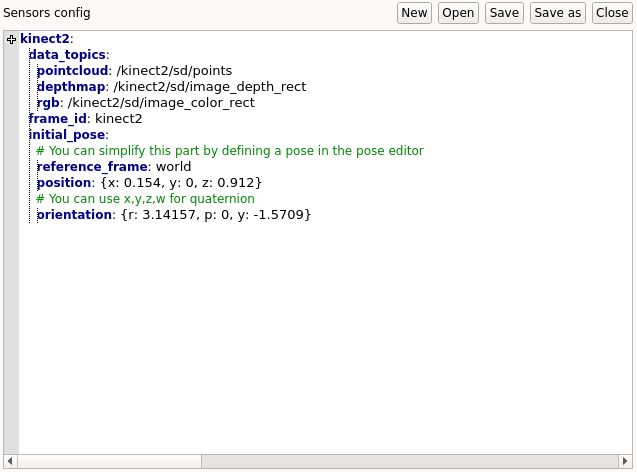
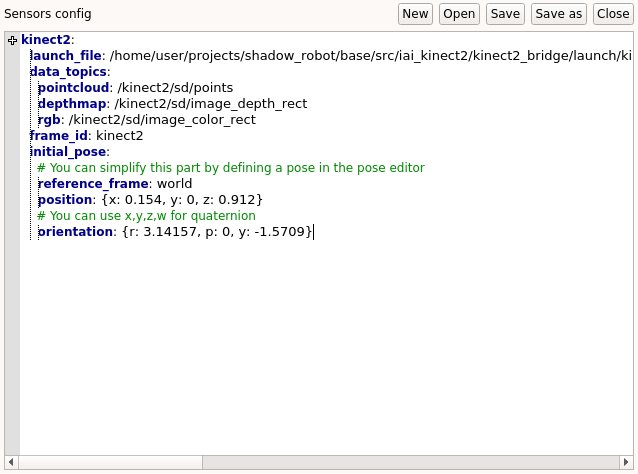
update documentation and add automated pick place tutorial

Changed region(s): [[0.0, 0.0, 1.0, 1.0]]

diff --git a/docs/tutorials/task_editor/automated_pick_and_place.rst b/docs/tutorials/task_editor/automated_pick_and_place.rst
@@ -14,7 +14,7 @@ A robot arm and gripper or hand integrated to GRIP, either :ref:`through MoveIt!
 Prerequisites
 #############
 
-In order to illustrate the same example both when the robot is integrated through MoveIt! and when one part of the robot is controlled by an external controller, we are going to use a UR5 robot arm with a EZGripper. If you want to replicate this tutorial, please clone `this repository <https://github.com/ARQ-CRISP/arq_ur5_ezgripper_moveit_config.git>`_ and `this one <https://github.com/ARQ-CRISP/EZGripper>`_ in :code:`/home/user/projects/shadow_robot/base/src`. Then compile them
+In order to illustrate the same example both when the robot is integrated through MoveIt! and when one part of the robot is controlled by an external controller, we are going to use a UR5 robot arm with a EZGripper. If you want to replicate this tutorial, please clone `this repository <https://github.com/ARQ-CRISP/arq_ur5_ezgripper_moveit_config.git>`_ and `this one <https://github.com/ARQ-CRISP/EZGripper>`_ in :code:`/home/user/projects/shadow_robot/base/src`. Note that for the simulation of the EZGripper, you might want to clone this `repository <https://github.com/roboticsgroup/roboticsgroup_gazebo_plugins.git>`_ as well. Now, compile them:
 
 .. prompt:: bash $
 
@@ -22,8 +22,75 @@ In order to illustrate the same example both when the robot is integrated throug
     catkin_make
     source devel/setup.bash
 
-Pick and place with full MoveIt! integration
-############################################
-In this section, we are going to run our robot in simulation **because we cannot control the physical EZGripper via MoveIt!**. Note that if you can operate your physical robot through MoveIt!, you should read and reproduce similar steps!
+Pick and place with MoveIt! operating the full robot
+####################################################
+In this section, we are going to run our robot in simulation **because we cannot control the physical EZGripper via MoveIt!**. Note that if you can operate your physical robot through MoveIt!, you should follow similar steps!
 
-1. Integrate your robot following :ref:`this tutorial <integrate_with_moveit>`. In our case, we have declared two planners, one for the group :code:`arm_and_manipulator` and the other one for :code:`ezgripper_finger_1` ()
+1. Integrate your robot following :ref:`this tutorial <integrate_with_moveit>`. In our case, we have declared two planners, one for the group :code:`arm_and_manipulator` that will control the arm and the other one for :code:`ezgripper_finger_1`, that will control the gripper.
+2. Define the joint states and/or poses that correspond to where the robot should move during the task. In order to illustrate the different features of the provided states, for this tutorial we defined 4 joint states and 1 pose as follow:
+Named joint states:
+
+.. code-block:: yaml
+
+  arm_grasp:
+    shoulder_pan_joint: 1.435950220551577
+    shoulder_lift_joint: -1.1216608234917134
+    elbow_joint: 1.6512809336516137
+    wrist_1_joint: -2.0680473866253664
+    wrist_2_joint: -1.5617962196319137
+    wrist_3_joint: -0.04593322487126095
+
+  open_gripper:
+    ezgripper_knuckle_palm_L1_1: 0
+
+  close_gripper:
+    ezgripper_knuckle_palm_L1_1: 1.94
+
+Named poses:
+
+.. code-block:: yaml
+
+  drop_state:
+    reference_frame: world
+    position: {x: 0.26725, y: 0.24347, z: 0.975}
+    # You can change r,p,y to x,y,z,w for quaternion
+    orientation: {x: 0.72173, y: -0.69127, z: 0.03176, w: -0.015492}
+
+3. Launch the robot (you can either click on the :code:`Launch robot` button or use the shortcut :code:`Ctrl+l`)
+4. In the :code:`Task editor` tab, you should see a set of states ready to be used. You can drag and drop them into the editor area. In this tutorial we are only going to use two of them: :code:`ComputePlan` and :code:`Move`.
+5. Configure each state according to what you want to implement. Note that you can take the most of the dropdown lists to select registered poses and joint states.
+
+.. image:: ../../img/automated_pick_place.png
+
+6. Make sure all the sockets are properly connected. Note that to connect all the remaining sockets to the :code:`Task failure`, you can use your right click and select :code:`Connect free sockets`.
+7. Right click and select :code:`Execute`. A window is going to prompt you for the name you want to give to the task. Once the new name provided, you should see the robot moving according to what you have just implemented!
+
+
+Pick and place with MoveIt! and an external controller
+######################################################
+In this section, we are going to carry out exactly the same task as in the previous section, but with our physical robot. As a result, we are going to use MoveIt! to control our robot arm and an `external controller <https://github.com/ARQ-CRISP/EZGripper/blob/master/ezgripper_driver/controllers/joint_state_controller.py>`_ :ref:`wrapped into a ROS action <ros_actions>` to operate the gripper.
+
+1. Integrate your robot following :ref:`this <integrate_software>` and :ref:`this tutorial <integrate_with_moveit>`. In our case, we keep the same MoveIt! configuration package but only register one MoveIt! planner for the group :code:`arm_and_manipulator`. In the :code:`Hand configuration` tab, we use the following configuration for the :code:`External controller` editor:
+
+.. code-block:: yaml
+
+  EZGripperController:
+    file: /home/user/projects/shadow_robot/base/src/EZGripper/ezgripper_driver/controllers/joint_state_controller.py
+    action/service: /home/user/projects/shadow_robot/base/src/EZGripper/ezgripper_driver/action/JointStateGripper.action
+    server_name: joint_state_ezgripper_controller
+    node_type: joint_state_controller.py
+    number_outcomes: 2
+
+2. Define your joint states and/or poses that correspond to where the robot should move during the task. In our case, we use exactly the same as the previous section.
+3. Launch the robot (you can either click on the :code:`Launch robot` button or use the shortcut :code:`Ctrl+l`)
+4. In the :code:`Task editor` tab, you should see a set of states ready to be used. You can drag and drop them into the editor area. In this tutorial we are going to use three of them: :code:`ComputePlan`, :code:`Move` and the state generated from the integrated controller (here :code:`EZGripperController`).
+5. Configure each state according to what you want to implement. Note that you can still take the most of the dropdown lists in generated states!
+
+.. image:: ../../img/automatic_pick_place_external.png
+
+6. Make sure all the sockets are properly connected. Note that to connect all the remaining sockets to the :code:`Task failure`, you can use your right click and select :code:`Connect free sockets`.
+7. Right click and select :code:`Execute`. A window is going to prompt you for the name you want to give to the task. Once the new name provided, you should see the robot moving according to what you have just implemented!
+
+.. note::
+
+	You don't have to use MoveIt! at all if you have your own controller and planner for the robot arm. The steps are mostly the same, except that you won't have the states :code:`ComputePlan` and :code:`Move` but the generated one running your own code!

diff --git a/docs/tutorials/integration/integrate_sensor.rst b/docs/tutorials/integration/integrate_sensor.rst
@@ -22,7 +22,7 @@ Procedure
 2. Specify the URDF file of the robot to the framework
 3. Set the composition of your robot(s), i.e. how many arms, hands and sensors need to be configured. In this case we are going to set only one sensor, but you can have several sensors
 4. In the :code:`Settings` tab, in the :code:`Sensors config`, click on :code:`New` and save the file wherever you want
-5. In the margin, click on the :code:`+` symbol and enter the name of your sensor
+5. In the margin, click on the :code:`+` symbol and enter the name of your sensor. Another dialog window is going to ask you for a launch file that runs your sensor. If you don't have any please refer to step 9.
 6. A template will appear in the editor with the following fields:
     * :code:`data_topics`: Dictionary that must contain all the different data to collect with their associated topic
     * :code:`frame_id`: Name of the frame associated to the sensor in the scene
@@ -32,7 +32,7 @@ Procedure
 
 7. Click on :code:`Save` in the editor and here you are, your sensor is now integrated (i.e. you can see a state in the :code:`Task editor` tab that allows you to collect data from the referenced topics).
 8. Integrate the rest of your robot
-9. **Before** clicking on :code:`Launch robot`, make sure you run the node or launch file publishing the data on topics in another terminal. In our case, we would first run :code:`roslaunch kinect2_bridge kinect2_bridge.launch reg_method:=cpu depth_method:=opengl` before clicking on :code:`Launch robot`
+9. If you have not provided a launch file during step 5 (that's fine), make sure to run your node or launch file that starts the sensor **before** clicking on :code:`Launch robot`.
 
 .. note::
 

diff --git a/docs/tutorials/integration/define_poses.rst b/docs/tutorials/integration/define_poses.rst
@@ -11,7 +11,7 @@ In this tutorial, we assume that a robot is already properly interfaced to GRIP 
 
 Procedure
 #########
-The same editor allows you to create both simple poses or to create poses for the robot's end-effector. After completing the common (and mandatory) steps, you can go to the corresponding subsections.
+The same editor allows you to create both simple poses or to create poses for the robot's end-effector. The latest is mainly useful when you want to define the pose of different fingers of a robot hand for instance. After completing the common (and mandatory) steps, you can go to the corresponding subsections.
 
 Common steps
 ************

diff --git a/docs/user_guide/installing_grip.rst b/docs/user_guide/installing_grip.rst
@@ -9,6 +9,7 @@ Hardware specifications
 #######################
 
 In order to run our software and the ROS software stack you will need to meet some hardware requirements.
+
 * CPU: Intel i5 or above
 * RAM: 4GB or above Hard Drive: Fast HDD or SSD (Laptop HDD can be slow)
 * Graphics Card: Nvidia GPU (optional)

diff --git a/docs/user_guide/tutorials.rst b/docs/user_guide/tutorials.rst
@@ -37,4 +37,7 @@ Integration stage
 Task design and execution
 #########################
 
+:ref:`Running an automated pick and place task <automated_pick_place>`
+**********************************************************************
+
 **In progress, the rest will be uploaded shortly!**
